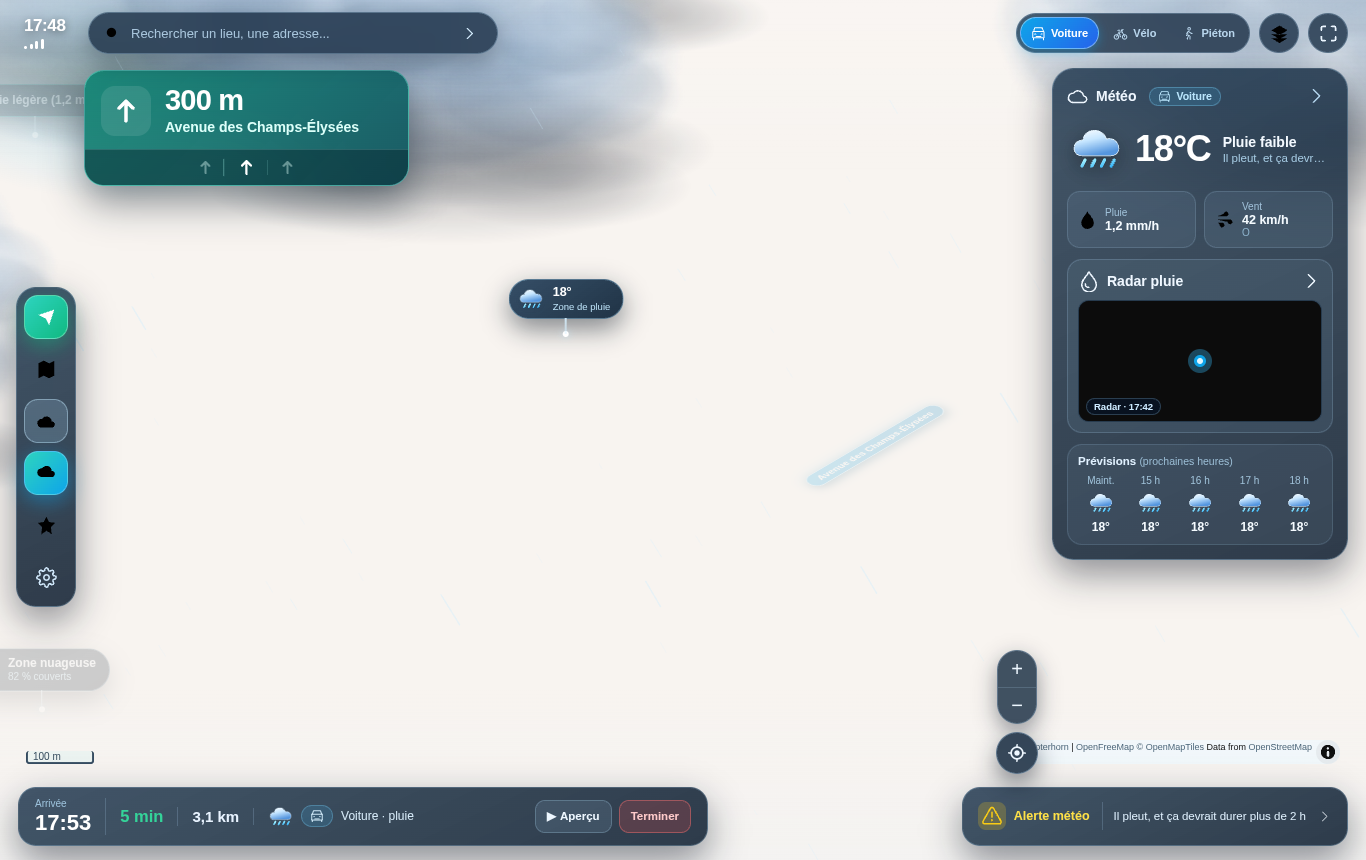
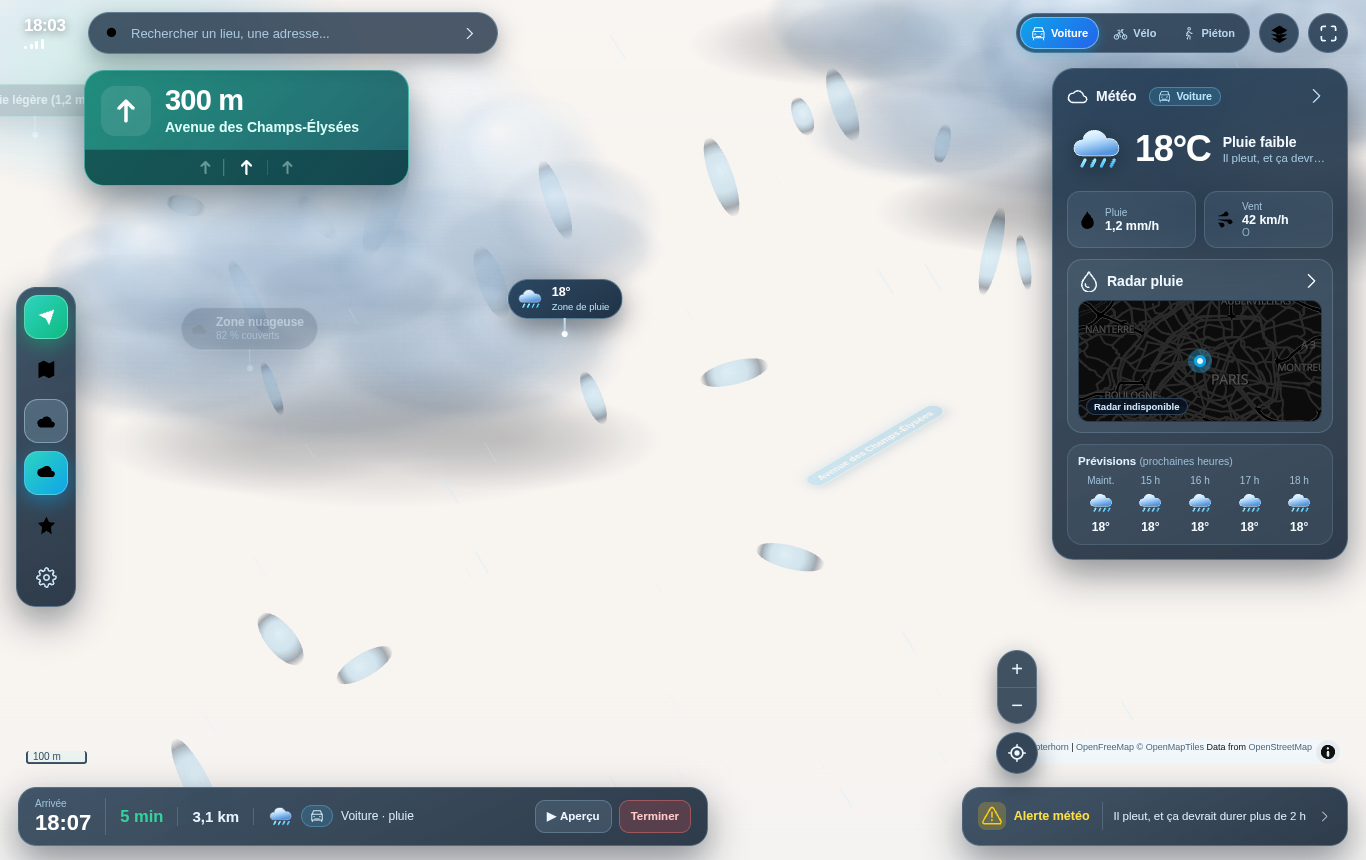
feat: update SkyMap visual assets and templates
Refactor core SkyMap templates and update verification assets to improve map rendering and support responsive mobile viewing.

diff --git a/public/assets/aistudio/SkyMap-ligne-bleue-reparee_a36eb9c7.html b/public/assets/aistudio/SkyMap-ligne-bleue-reparee_a36eb9c7.html
@@ -1296,6 +1296,25 @@ function styleFor(i){return i!==2?BASES[i].style:{version:8,sources:{imagery:{ty
 let map=null,userInteracted=false;
 try{
   map=new maplibregl.Map({container:'map',style:styleFor(cfg.base),center:[sel.lon,sel.lat],zoom:startZoom,pitch:cfg.mode3d?55:0,bearing:cfg.mode3d?-18:0,minZoom:3,maxZoom:19,maxPitch:65,scrollZoom:true,boxZoom:true,dragRotate:true,dragPan:true,touchZoomRotate:true,doubleClickZoom:true,keyboard:true,attributionControl:false,canvasContextAttributes:{antialias:true}});
+  const origPrepElev=map._prepareElevation?.bind(map);
+  if(origPrepElev)map._prepareElevation=function(lngLat){
+    const ll=lngLat||this.getCenter();
+    if(!ll||!Number.isFinite(ll.lng)||!Number.isFinite(ll.lat))return;
+    const res=origPrepElev(ll);
+    if(!Number.isFinite(this._elevationStart))this._elevationStart=Number.isFinite(this.transform?.elevation)?this.transform.elevation:0;
+    if(!Number.isFinite(this._elevationTarget))this._elevationTarget=this._elevationStart;
+    return res;
+  };
+  const origUpdElev=map._updateElevation?.bind(map);
+  if(origUpdElev)map._updateElevation=function(k){
+    if(!this._elevationCenter||!Number.isFinite(this._elevationCenter.lng)||!Number.isFinite(this._elevationCenter.lat)){
+      this._elevationCenter=this.getCenter();
+    }
+    if(!Number.isFinite(this._elevationStart))this._elevationStart=Number.isFinite(this.transform?.elevation)?this.transform.elevation:0;
+    if(!Number.isFinite(this._elevationTarget))this._elevationTarget=this._elevationStart;
+    if(!Number.isFinite(k))return;
+    return origUpdElev(k);
+  };
   map.addControl(new maplibregl.AttributionControl({compact:true}),'bottom-right');
   map.addControl(new maplibregl.ScaleControl({maxWidth:100,unit:'metric'}),'bottom-left');
 }catch(e){
@@ -4186,6 +4205,25 @@ if(map){
     if(token===S.req&&Math.abs(sel.lat-lat)<1e-6&&Math.abs(sel.lon-lon)<1e-6){sel.name=name;store.set('sel',sel);setSelMarker();$('wPlace').textContent=name;updateHash();}
   });
   const cc=map.getCanvasContainer();
+  let dragTrack=null;
+  cc.addEventListener('pointerdown',e=>{if(e.button===0||e.pointerType!=='mouse'){dragTrack={x:e.clientX,y:e.clientY,moved:false};}},{passive:true});
+  window.addEventListener('pointermove',e=>{
+    if(!dragTrack)return;
+    if(!dragTrack.moved&&Math.hypot(e.clientX-dragTrack.x,e.clientY-dragTrack.y)>4){
+      dragTrack.moved=true;
+      userInteracted=true;GPS.zoomPending=false;
+      if(DRIVE.active){DRIVE.draggingNow=true;pauseDrivingFollow('drag');}else pauseFollow();
+    }
+  },{passive:true});
+  const endDragTrack=()=>{
+    if(dragTrack&&dragTrack.moved&&DRIVE.draggingNow){
+      DRIVE.draggingNow=false;
+      if(DRIVE.active)pauseDrivingFollow('dragend');
+    }
+    dragTrack=null;
+  };
+  window.addEventListener('pointerup',endDragTrack,{passive:true});
+  window.addEventListener('pointercancel',endDragTrack,{passive:true});
   cc.addEventListener('wheel',()=>{if(!GPS.zoomPending||GPS.fix)userInteracted=true;if(GPS.fix)GPS.zoomPending=false;if(DRIVE.active){DRIVE.userZoomed=true;pauseDrivingFollow('zoom');}},{passive:true});
   cc.addEventListener('touchstart',e=>{if(GPS.fix){userInteracted=true;GPS.zoomPending=false;}if(DRIVE.active){if(e.touches?.length>=2)DRIVE.userZoomed=true;pauseDrivingFollow('touch');}},{passive:true});
   map.on('dragstart',e=>{if(e.originalEvent){userInteracted=true;GPS.zoomPending=false;if(DRIVE.active){DRIVE.draggingNow=true;pauseDrivingFollow('drag');}else pauseFollow();}});

diff --git a/public/skymap-embed.html b/public/skymap-embed.html
@@ -1296,6 +1296,25 @@ function styleFor(i){return i!==2?BASES[i].style:{version:8,sources:{imagery:{ty
 let map=null,userInteracted=false;
 try{
   map=new maplibregl.Map({container:'map',style:styleFor(cfg.base),center:[sel.lon,sel.lat],zoom:startZoom,pitch:cfg.mode3d?55:0,bearing:cfg.mode3d?-18:0,minZoom:3,maxZoom:19,maxPitch:65,scrollZoom:true,boxZoom:true,dragRotate:true,dragPan:true,touchZoomRotate:true,doubleClickZoom:true,keyboard:true,attributionControl:false,canvasContextAttributes:{antialias:true}});
+  const origPrepElev=map._prepareElevation?.bind(map);
+  if(origPrepElev)map._prepareElevation=function(lngLat){
+    const ll=lngLat||this.getCenter();
+    if(!ll||!Number.isFinite(ll.lng)||!Number.isFinite(ll.lat))return;
+    const res=origPrepElev(ll);
+    if(!Number.isFinite(this._elevationStart))this._elevationStart=Number.isFinite(this.transform?.elevation)?this.transform.elevation:0;
+    if(!Number.isFinite(this._elevationTarget))this._elevationTarget=this._elevationStart;
+    return res;
+  };
+  const origUpdElev=map._updateElevation?.bind(map);
+  if(origUpdElev)map._updateElevation=function(k){
+    if(!this._elevationCenter||!Number.isFinite(this._elevationCenter.lng)||!Number.isFinite(this._elevationCenter.lat)){
+      this._elevationCenter=this.getCenter();
+    }
+    if(!Number.isFinite(this._elevationStart))this._elevationStart=Number.isFinite(this.transform?.elevation)?this.transform.elevation:0;
+    if(!Number.isFinite(this._elevationTarget))this._elevationTarget=this._elevationStart;
+    if(!Number.isFinite(k))return;
+    return origUpdElev(k);
+  };
   map.addControl(new maplibregl.AttributionControl({compact:true}),'bottom-right');
   map.addControl(new maplibregl.ScaleControl({maxWidth:100,unit:'metric'}),'bottom-left');
 }catch(e){
@@ -4186,6 +4205,25 @@ if(map){
     if(token===S.req&&Math.abs(sel.lat-lat)<1e-6&&Math.abs(sel.lon-lon)<1e-6){sel.name=name;store.set('sel',sel);setSelMarker();$('wPlace').textContent=name;updateHash();}
   });
   const cc=map.getCanvasContainer();
+  let dragTrack=null;
+  cc.addEventListener('pointerdown',e=>{if(e.button===0||e.pointerType!=='mouse'){dragTrack={x:e.clientX,y:e.clientY,moved:false};}},{passive:true});
+  window.addEventListener('pointermove',e=>{
+    if(!dragTrack)return;
+    if(!dragTrack.moved&&Math.hypot(e.clientX-dragTrack.x,e.clientY-dragTrack.y)>4){
+      dragTrack.moved=true;
+      userInteracted=true;GPS.zoomPending=false;
+      if(DRIVE.active){DRIVE.draggingNow=true;pauseDrivingFollow('drag');}else pauseFollow();
+    }
+  },{passive:true});
+  const endDragTrack=()=>{
+    if(dragTrack&&dragTrack.moved&&DRIVE.draggingNow){
+      DRIVE.draggingNow=false;
+      if(DRIVE.active)pauseDrivingFollow('dragend');
+    }
+    dragTrack=null;
+  };
+  window.addEventListener('pointerup',endDragTrack,{passive:true});
+  window.addEventListener('pointercancel',endDragTrack,{passive:true});
   cc.addEventListener('wheel',()=>{if(!GPS.zoomPending||GPS.fix)userInteracted=true;if(GPS.fix)GPS.zoomPending=false;if(DRIVE.active){DRIVE.userZoomed=true;pauseDrivingFollow('zoom');}},{passive:true});
   cc.addEventListener('touchstart',e=>{if(GPS.fix){userInteracted=true;GPS.zoomPending=false;}if(DRIVE.active){if(e.touches?.length>=2)DRIVE.userZoomed=true;pauseDrivingFollow('touch');}},{passive:true});
   map.on('dragstart',e=>{if(e.originalEvent){userInteracted=true;GPS.zoomPending=false;if(DRIVE.active){DRIVE.draggingNow=true;pauseDrivingFollow('drag');}else pauseFollow();}});

diff --git a/public/skymap.html b/public/skymap.html
@@ -1296,6 +1296,25 @@ function styleFor(i){return i!==2?BASES[i].style:{version:8,sources:{imagery:{ty
 let map=null,userInteracted=false;
 try{
   map=new maplibregl.Map({container:'map',style:styleFor(cfg.base),center:[sel.lon,sel.lat],zoom:startZoom,pitch:cfg.mode3d?55:0,bearing:cfg.mode3d?-18:0,minZoom:3,maxZoom:19,maxPitch:65,scrollZoom:true,boxZoom:true,dragRotate:true,dragPan:true,touchZoomRotate:true,doubleClickZoom:true,keyboard:true,attributionControl:false,canvasContextAttributes:{antialias:true}});
+  const origPrepElev=map._prepareElevation?.bind(map);
+  if(origPrepElev)map._prepareElevation=function(lngLat){
+    const ll=lngLat||this.getCenter();
+    if(!ll||!Number.isFinite(ll.lng)||!Number.isFinite(ll.lat))return;
+    const res=origPrepElev(ll);
+    if(!Number.isFinite(this._elevationStart))this._elevationStart=Number.isFinite(this.transform?.elevation)?this.transform.elevation:0;
+    if(!Number.isFinite(this._elevationTarget))this._elevationTarget=this._elevationStart;
+    return res;
+  };
+  const origUpdElev=map._updateElevation?.bind(map);
+  if(origUpdElev)map._updateElevation=function(k){
+    if(!this._elevationCenter||!Number.isFinite(this._elevationCenter.lng)||!Number.isFinite(this._elevationCenter.lat)){
+      this._elevationCenter=this.getCenter();
+    }
+    if(!Number.isFinite(this._elevationStart))this._elevationStart=Number.isFinite(this.transform?.elevation)?this.transform.elevation:0;
+    if(!Number.isFinite(this._elevationTarget))this._elevationTarget=this._elevationStart;
+    if(!Number.isFinite(k))return;
+    return origUpdElev(k);
+  };
   map.addControl(new maplibregl.AttributionControl({compact:true}),'bottom-right');
   map.addControl(new maplibregl.ScaleControl({maxWidth:100,unit:'metric'}),'bottom-left');
 }catch(e){
@@ -4186,6 +4205,25 @@ if(map){
     if(token===S.req&&Math.abs(sel.lat-lat)<1e-6&&Math.abs(sel.lon-lon)<1e-6){sel.name=name;store.set('sel',sel);setSelMarker();$('wPlace').textContent=name;updateHash();}
   });
   const cc=map.getCanvasContainer();
+  let dragTrack=null;
+  cc.addEventListener('pointerdown',e=>{if(e.button===0||e.pointerType!=='mouse'){dragTrack={x:e.clientX,y:e.clientY,moved:false};}},{passive:true});
+  window.addEventListener('pointermove',e=>{
+    if(!dragTrack)return;
+    if(!dragTrack.moved&&Math.hypot(e.clientX-dragTrack.x,e.clientY-dragTrack.y)>4){
+      dragTrack.moved=true;
+      userInteracted=true;GPS.zoomPending=false;
+      if(DRIVE.active){DRIVE.draggingNow=true;pauseDrivingFollow('drag');}else pauseFollow();
+    }
+  },{passive:true});
+  const endDragTrack=()=>{
+    if(dragTrack&&dragTrack.moved&&DRIVE.draggingNow){
+      DRIVE.draggingNow=false;
+      if(DRIVE.active)pauseDrivingFollow('dragend');
+    }
+    dragTrack=null;
+  };
+  window.addEventListener('pointerup',endDragTrack,{passive:true});
+  window.addEventListener('pointercancel',endDragTrack,{passive:true});
   cc.addEventListener('wheel',()=>{if(!GPS.zoomPending||GPS.fix)userInteracted=true;if(GPS.fix)GPS.zoomPending=false;if(DRIVE.active){DRIVE.userZoomed=true;pauseDrivingFollow('zoom');}},{passive:true});
   cc.addEventListener('touchstart',e=>{if(GPS.fix){userInteracted=true;GPS.zoomPending=false;}if(DRIVE.active){if(e.touches?.length>=2)DRIVE.userZoomed=true;pauseDrivingFollow('touch');}},{passive:true});
   map.on('dragstart',e=>{if(e.originalEvent){userInteracted=true;GPS.zoomPending=false;if(DRIVE.active){DRIVE.draggingNow=true;pauseDrivingFollow('drag');}else pauseFollow();}});
